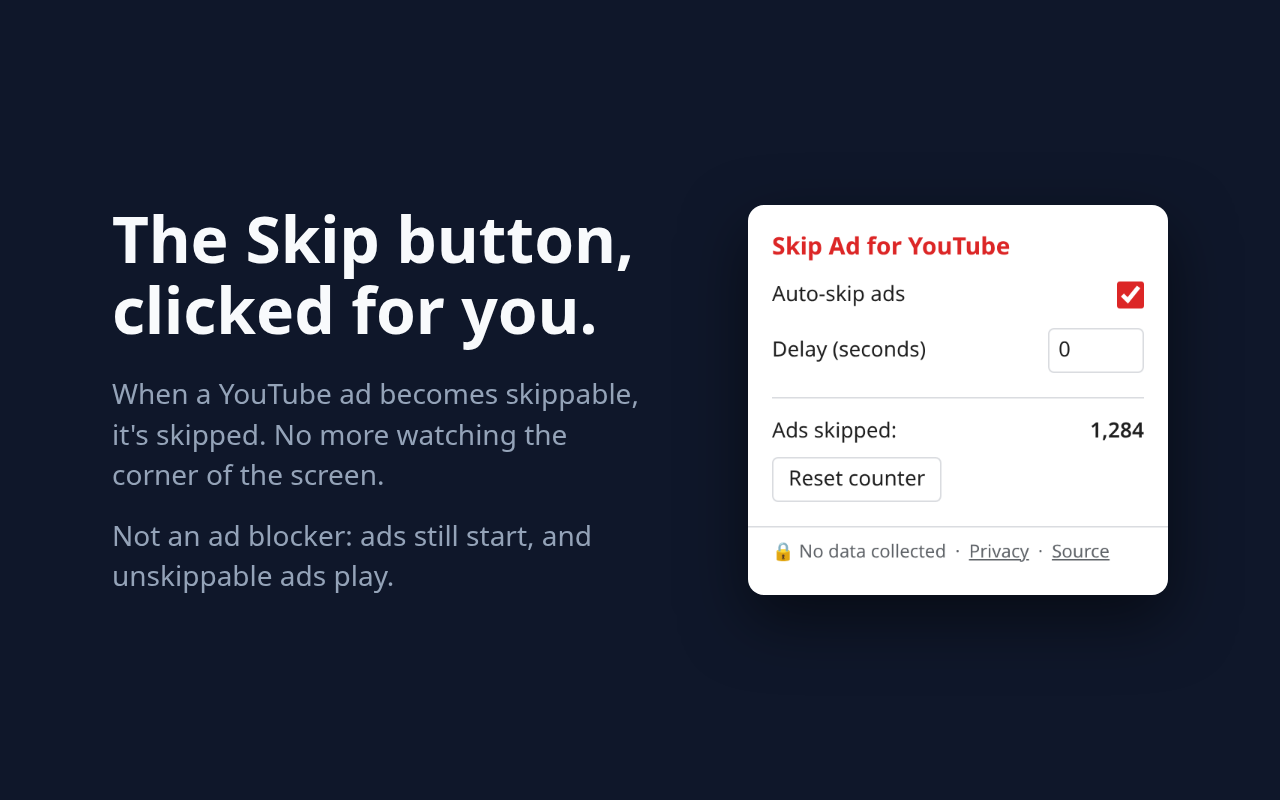
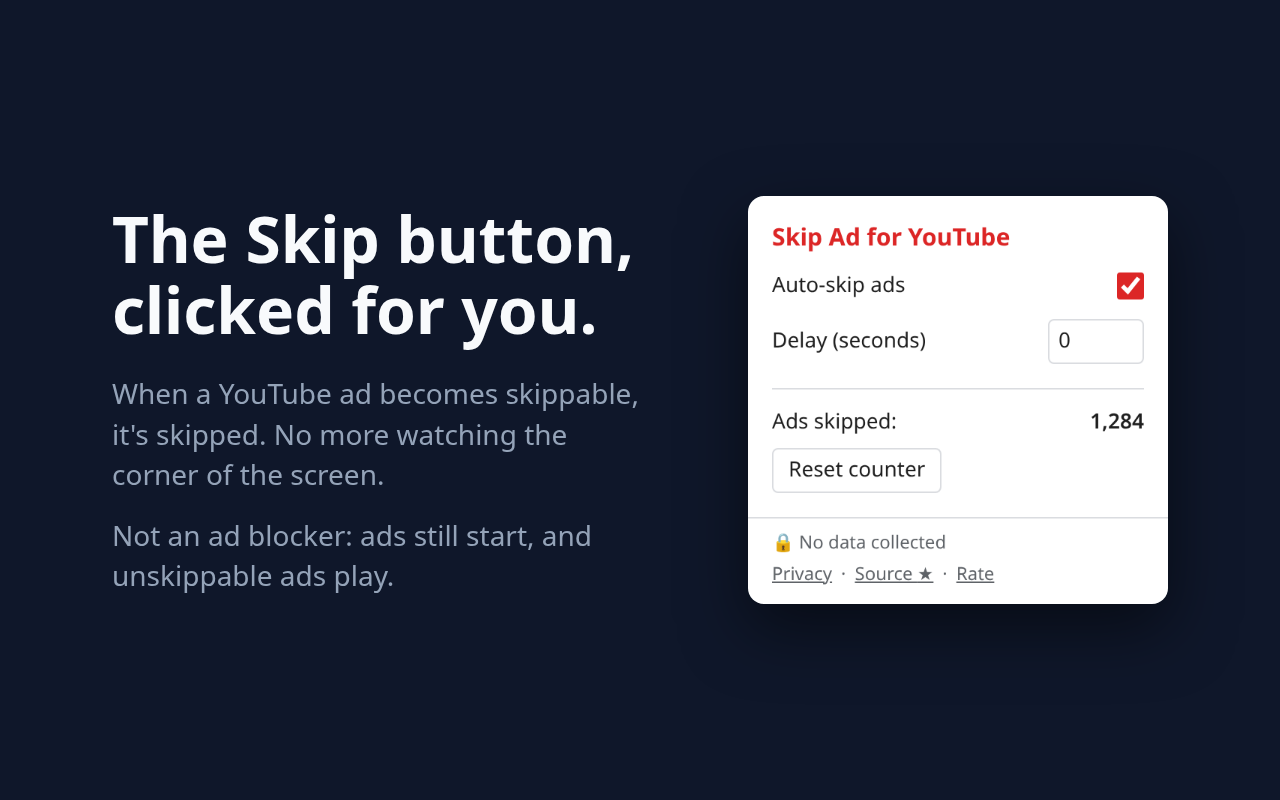
docs(store): retake popup screenshots for 1.2.0

diff --git a/docs/store/listing.md b/docs/store/listing.md
@@ -143,5 +143,6 @@ npx playwright screenshot --viewport-size=440,280 "file://$PWD/promo-small.html"
 ```
 
 `src/popup-light.png` and `src/popup-dark.png` are screenshots of the real
-popup (at 2× scale, with 1,284 ads skipped), taken from the loaded
-extension. Retake them after any popup change.
+popup (at 2× scale, with 1,284 ads skipped and the rating prompt marked
+done, so it doesn't cover the controls), taken from the loaded extension.
+Retake them after any popup change.
